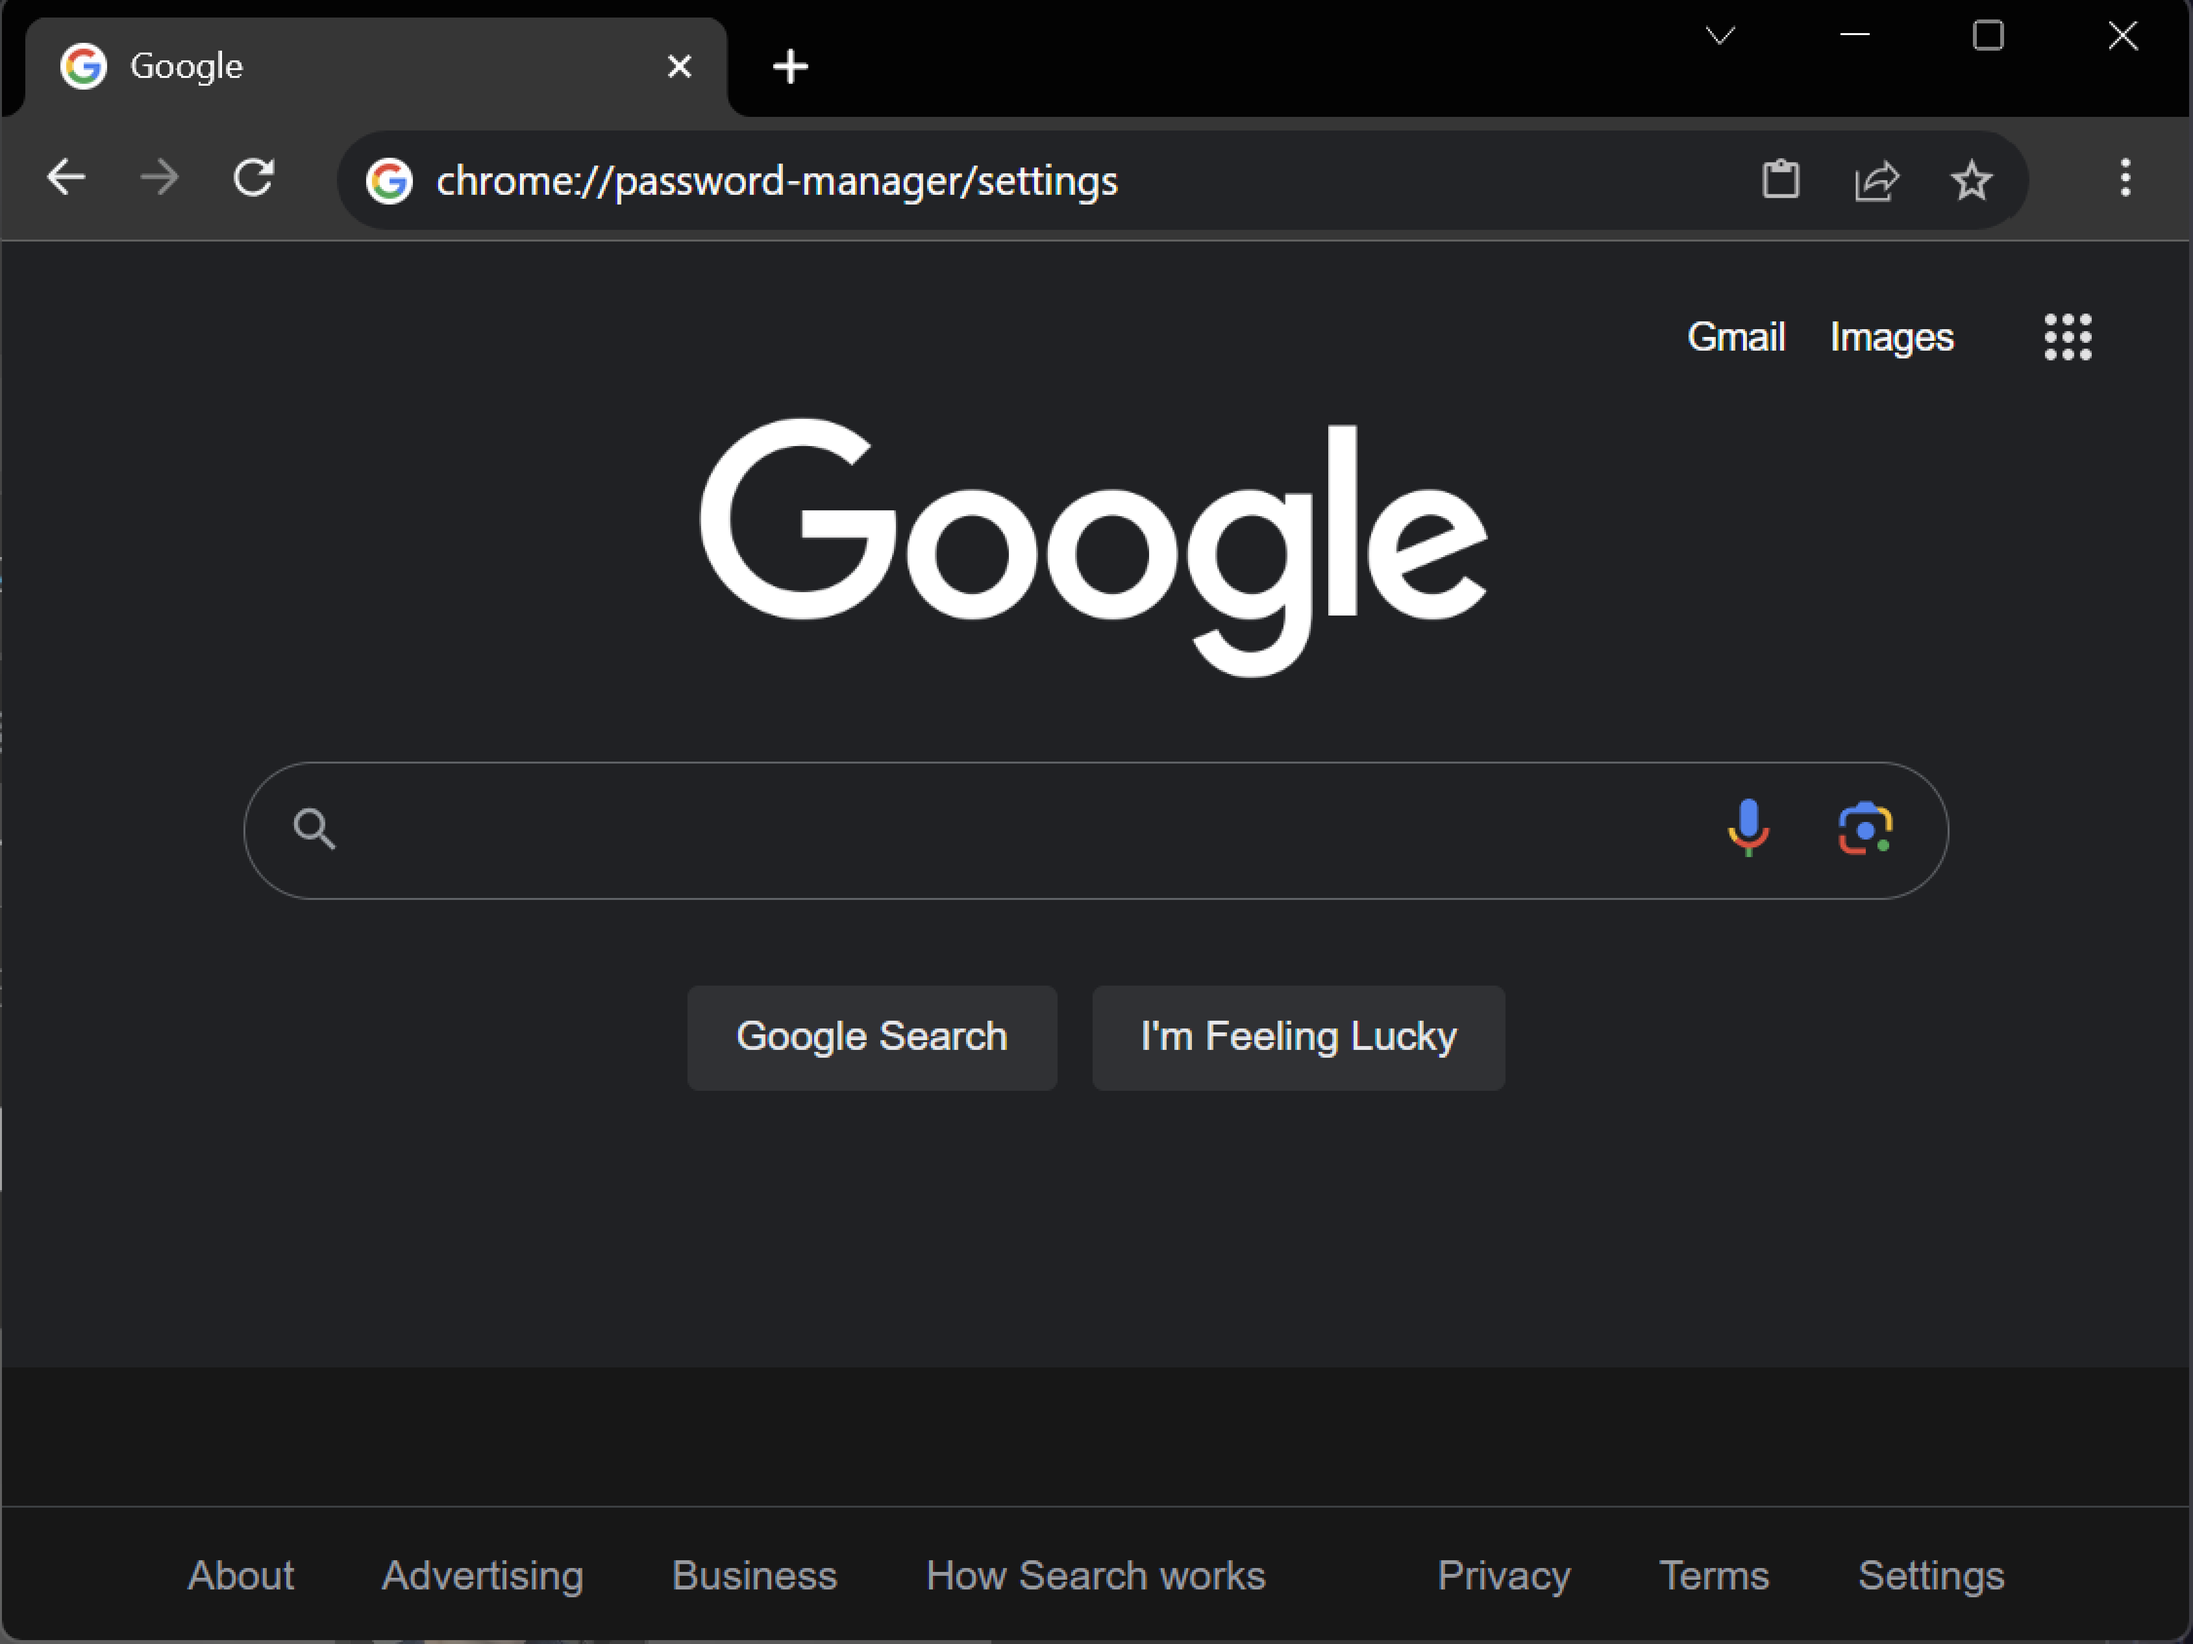
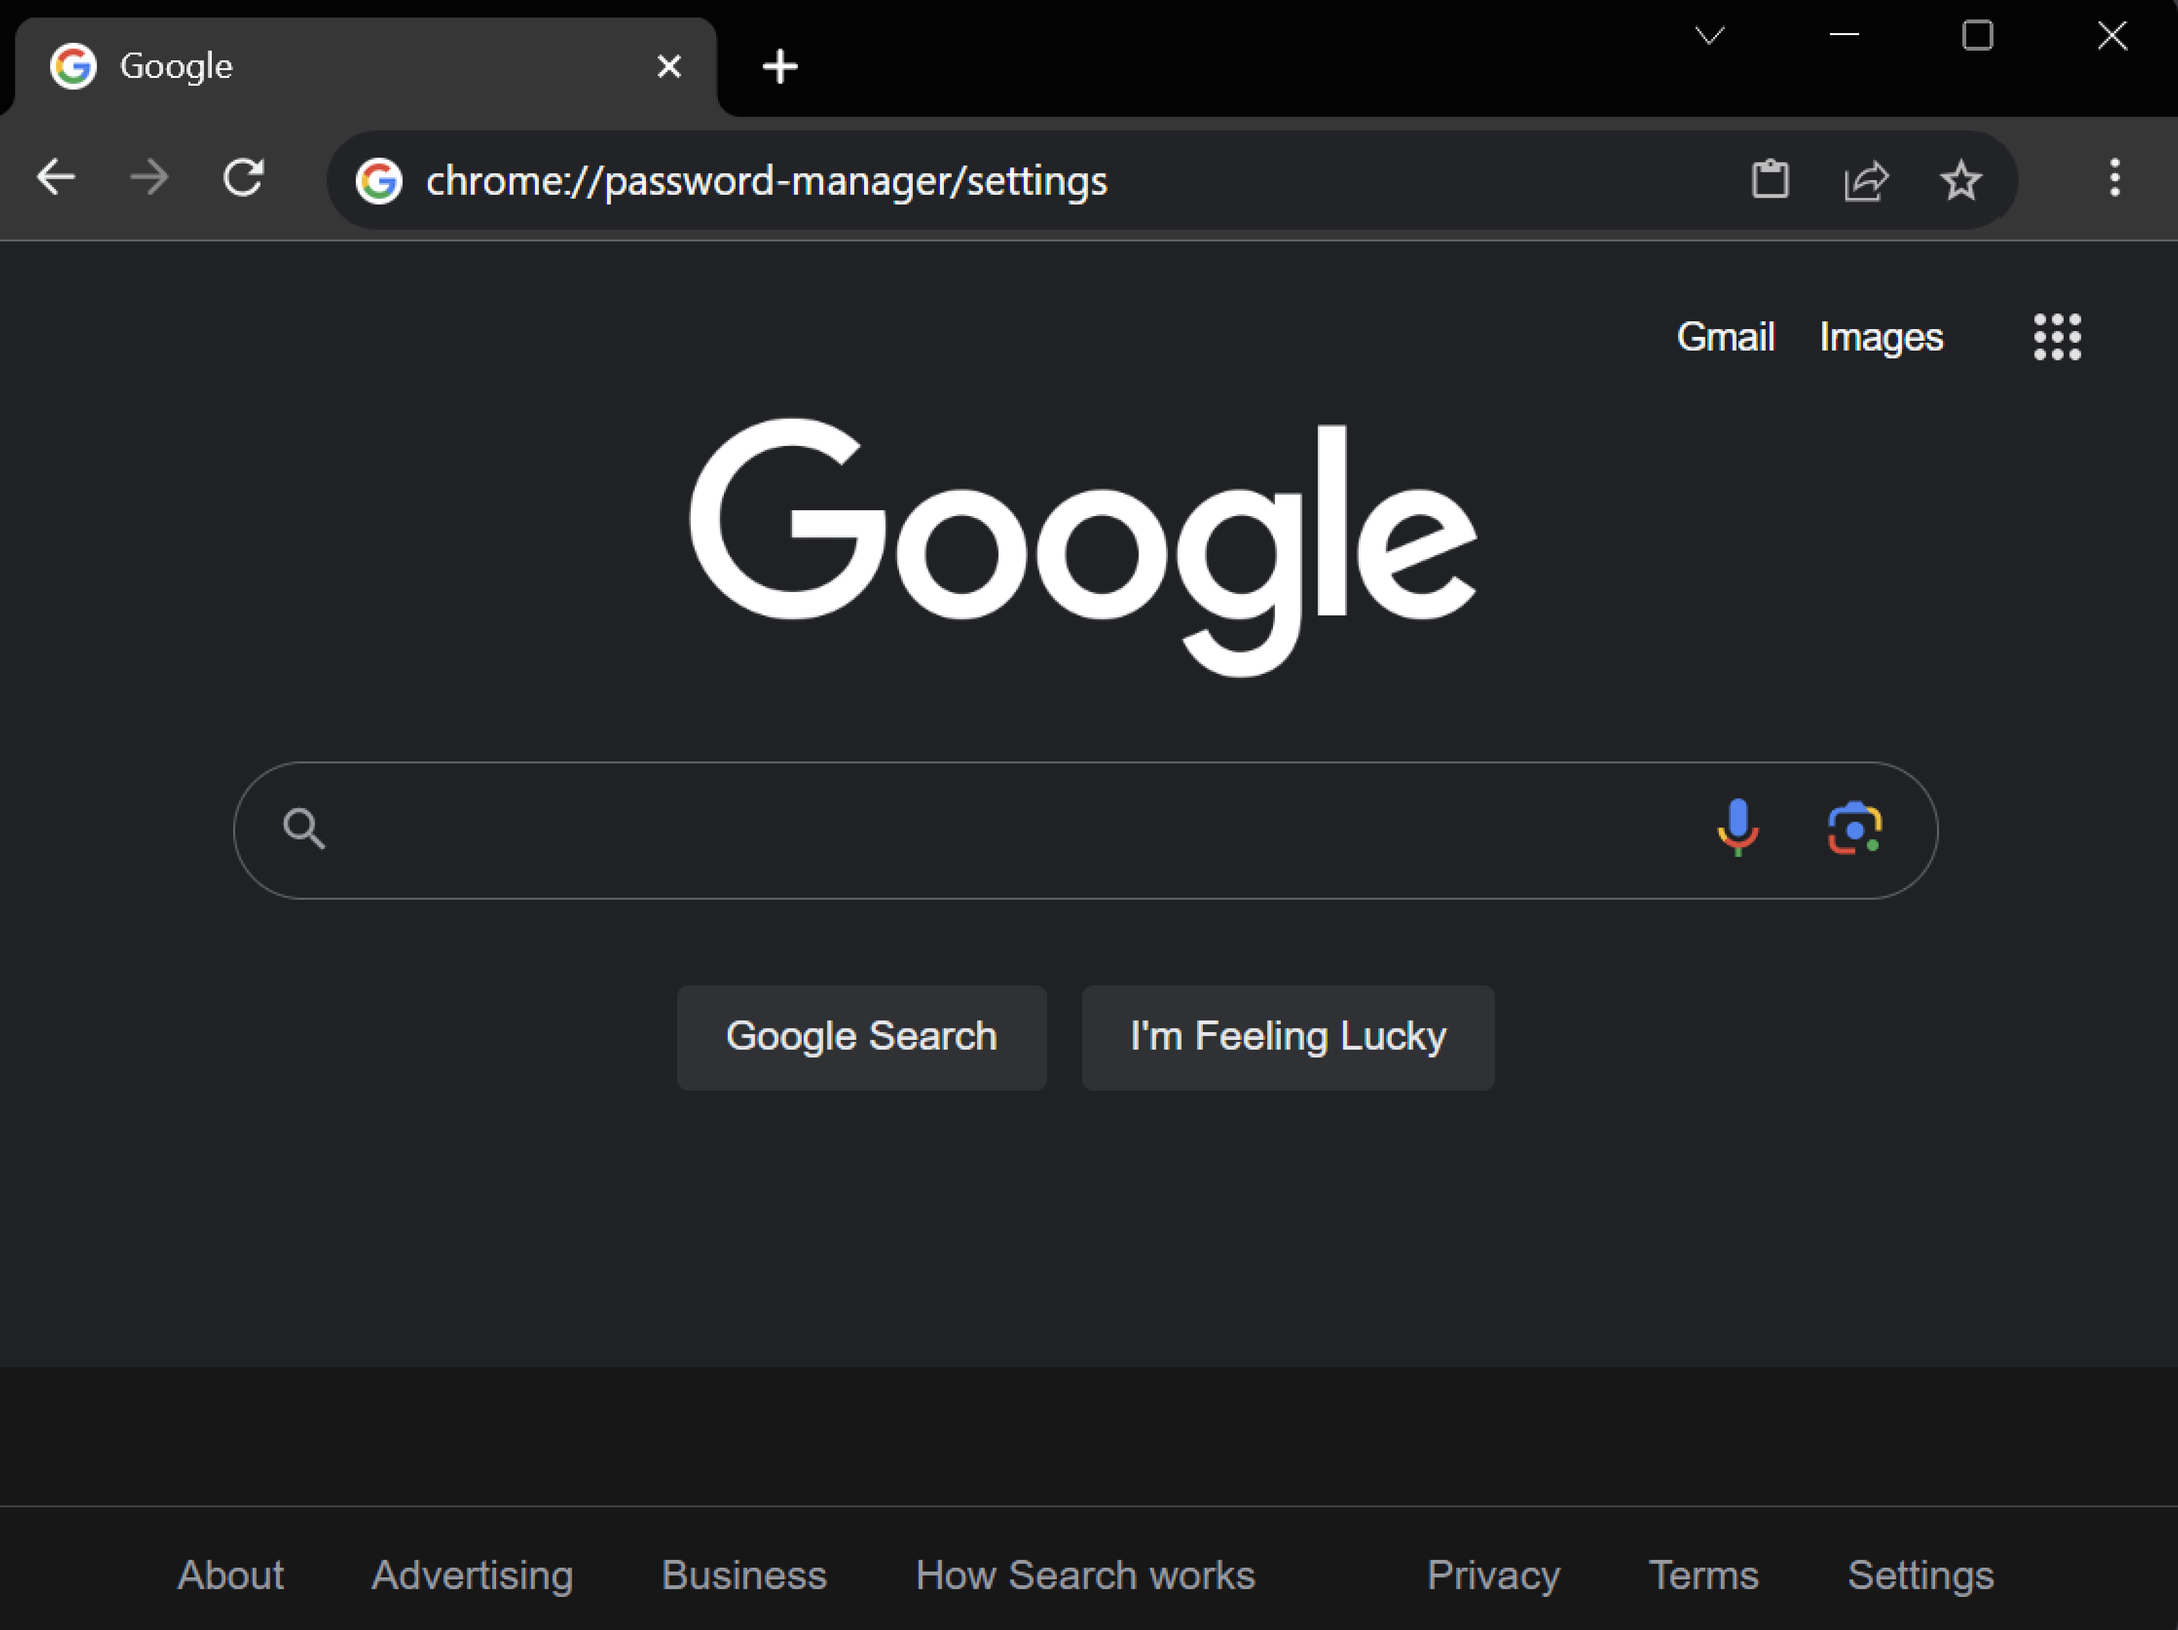
File Upload

diff --git a/src/app/dashboard/setup/page.tsx b/src/app/dashboard/setup/page.tsx
@@ -42,7 +42,7 @@ export default function Page() {
                 <div className="flex-grow pl-4">
                     <h2 className="font-medium title-font text-sm text-white mb-1 tracking-wider">STEP 1</h2>
                     <p className="leading-relaxed">Head over to the Chrome Password Manager by typing <span className='bg-gray-700 text-white-700 font-mono px-2 py-1 rounded'>chrome://password-manager/settings</span> in your URL bar.</p>
-                    <img src="https://raw.githubusercontent.com/NotSooShariff/Password-Manager/main/src/assets/images/setup1.png" alt="" />
+                    <img className="rounded-lg" src="https://raw.githubusercontent.com/NotSooShariff/Password-Manager/main/src/assets/images/setup1hd.png" alt="" />
                 </div>
                 </div>
 
